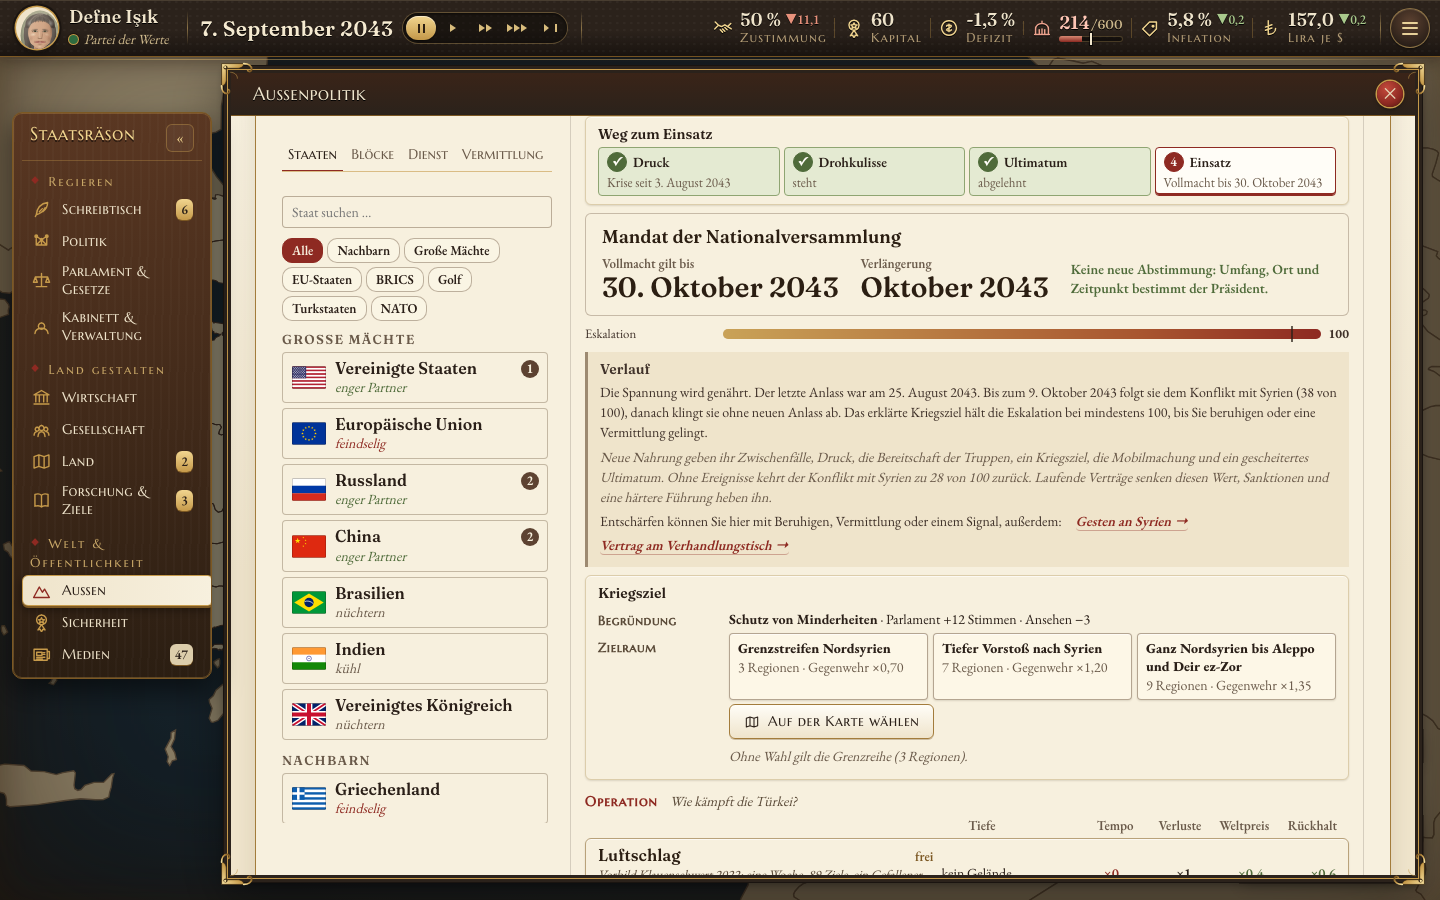
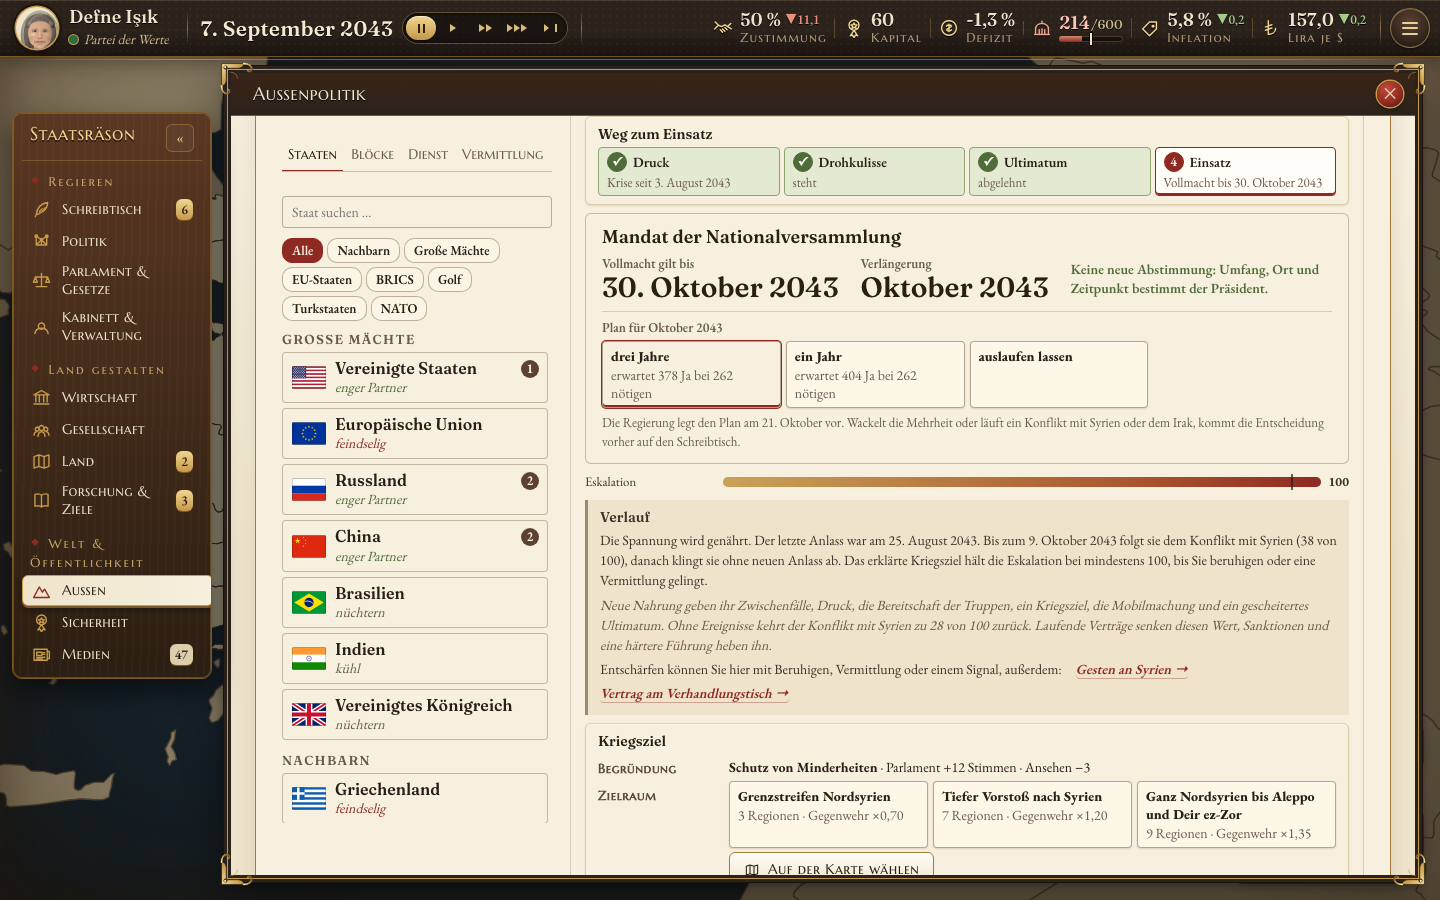
Vollmacht: Routineverlängerung nach Plan, auf dem Schreibtisch nur wenn die Mehrheit wackelt oder ein Konflikt mit Syrien oder dem Irak läuft; Plan für den Oktober in der Kriegsakte
Claude-Session: https://claude.ai/code/session_015tmx9syU1rT4V5iV7G2WLd

Changed region(s): [[0.4062, 0.3422, 0.9375, 0.9956], [0.4062, 0.9333, 0.4688, 0.9644]]

diff --git a/game/src/ui/krieg/Mandat.tsx b/game/src/ui/krieg/Mandat.tsx
@@ -7,6 +7,7 @@ import type { World } from "../../sim/types";
 import type { KriegVorgang } from "../../sim/krieg-typen";
 import { einsatzAnlass, mandatSperreBis, reservistenUnterWaffen, type KriegHandlungId, type KriegHandlungSicht } from "../../sim/krieg";
 import { mandatSicht } from "../../sim/mandat";
+import { vollmachtPlanSetzen } from "../../sim/ereignisse-mandat";
 import { vollmachtFuer, vollmachtStand } from "../../sim/krieg-recht";
 import { reservistenLuecke } from "../../sim/reservisten";
 import { PARTY_COLORS } from "../parlament/lage";
@@ -17,34 +18,10 @@ import "./mandat.css";
 
 const n0 = (x: number) => zahl(Math.round(x), 0);
 
-export function Mandat({ world, k, handlungen, tun }: { world: World; k: KriegVorgang; handlungen: KriegHandlungSicht[]; tun: (id: KriegHandlungId) => void }) {
+export function Mandat({ world, k, handlungen, tun, onTat }: { world: World; k: KriegVorgang; handlungen: KriegHandlungSicht[]; tun: (id: KriegHandlungId) => void; onTat: () => void }) {
   useSprache();
   const vollmacht = vollmachtFuer(world, k.land);
-  if (vollmacht) {
-    const letzte = vollmachtStand(world).verlauf.filter((v) => v.angenommen).at(-1);
-    return (
-      <section className="km7 km7-vollmacht" aria-label={t("welle_k7.m.titel")}>
-        <h5>{t("welle_k7.m.titel")}</h5>
-        <dl className="km7-kern">
-          <div>
-            <dt>{t("welle_k7.m.v.bis")}</dt>
-            <dd>{datum(vollmacht.bis)}</dd>
-          </div>
-          <div>
-            <dt>{t("welle_k7.m.v.abstimmung")}</dt>
-            <dd>{t("welle_k7.m.v.monat", { jahr: vollmacht.bis.slice(0, 4) })}</dd>
-          </div>
-          {letzte && (
-            <div>
-              <dt>{t("welle_k7.m.v.letzte")}</dt>
-              <dd>{t("welle_k7.m.v.letzte_wert", { ja: n0(letzte.ja), nein: n0(letzte.nein) })}</dd>
-            </div>
-          )}
-          <p className="km7-urteil gut">{t("welle_k7.m.v.satz")}</p>
-        </dl>
-      </section>
-    );
-  }
+  if (vollmacht) return <VollmachtKarte world={world} onTat={onTat} />;
   const m = mandatSicht(world, einsatzAnlass(k));
   const sperre = mandatSperreBis(world, k.land);
   const zusagen = new Map(handlungen.filter((h) => h.id.startsWith("zusage_")).map((h) => [h.id.slice("zusage_".length), h]));
@@ -96,6 +73,54 @@ export function Mandat({ world, k, handlungen, tun }: { world: World; k: KriegVo
       </ul>
       {[...zusagen.values()].slice(0, 1).map((z) => <p key={z.id} className="km7-hinweis">{z.hinweis}</p>)}
       {sperre > world.day && <p className="km7-sperre">{t("welle_k7.m.sperre", { datum: addDays(world.date, sperre - world.day) })}</p>}
+    </section>
+  );
+}
+
+/** Die stehende Vollmacht für Syrien und den Irak: Frist, Monat der Verlängerung, letzte Abstimmung und der Plan für den Oktober. */
+export function VollmachtKarte({ world, onTat }: { world: World; onTat: () => void }) {
+  useSprache();
+  const vollmacht = vollmachtFuer(world, "SYR");
+  if (!vollmacht) return null;
+  const stand = vollmachtStand(world);
+  const letzte = stand.verlauf.filter((v) => v.angenommen).at(-1);
+  const plan = stand.plan ?? 3;
+  return (
+    <section className="km7 km7-vollmacht" aria-label={t("welle_k7.m.titel")}>
+      <h5>{t("welle_k7.m.titel")}</h5>
+      <dl className="km7-kern">
+        <div>
+          <dt>{t("welle_k7.m.v.bis")}</dt>
+          <dd>{datum(vollmacht.bis)}</dd>
+        </div>
+        <div>
+          <dt>{t("welle_k7.m.v.abstimmung")}</dt>
+          <dd>{t("welle_k7.m.v.monat", { jahr: vollmacht.bis.slice(0, 4) })}</dd>
+        </div>
+        {letzte && (
+          <div>
+            <dt>{t("welle_k7.m.v.letzte")}</dt>
+            <dd>{t("welle_k7.m.v.letzte_wert", { ja: n0(letzte.ja), nein: n0(letzte.nein) })}</dd>
+          </div>
+        )}
+        <p className="km7-urteil gut">{t("welle_k7.m.v.satz")}</p>
+      </dl>
+      {/* Der Plan für den Oktober: was die Regierung routinemäßig vorlegt (sim/ereignisse-mandat.ts) */}
+      <div className="km7-plan">
+        <span className="km7-plan-kopf">{t("welle_k7.m.v.plan", { jahr: vollmacht.bis.slice(0, 4) })}</span>
+        <div className="ks-knoepfe" role="group">
+          {([3, 1, 0] as const).map((p) => {
+            const m = p > 0 ? mandatSicht(world, { art: "verlaengerung", jahre: p }) : undefined;
+            return (
+              <button key={p} type="button" className={plan === p ? "on" : ""} disabled={plan === p} onClick={() => { vollmachtPlanSetzen(world, p); onTat(); }}>
+                <strong>{t(`welle_k7.plan.${p}`)}</strong>
+                {m && <span>{t("welle_k7.m.v.plan_erwartet", { ja: n0(m.ja), noetig: n0(m.noetig) })}</span>}
+              </button>
+            );
+          })}
+        </div>
+        <p className="km7-hinweis">{t("welle_k7.m.v.plan_hinweis")}</p>
+      </div>
     </section>
   );
 }

diff --git a/game/src/sim/ereignisse-mandat.ts b/game/src/sim/ereignisse-mandat.ts
@@ -1,7 +1,12 @@
 // Die Verlängerung der Vollmacht für Syrien und Irak (Welle 4, K7; krieg.md Schritt 11, Befund B7).
 //
-//   vollmacht_verlaengerung  Fester Termin im Oktober des Jahres, in dem die Vollmacht ausläuft (zuerst am 30.10.2028). Der Präsident legt
-//                            sie für drei oder für ein Jahr vor, mit oder ohne Zusage an eine Fraktion, oder lässt sie auslaufen.
+//   vollmacht_verlaengerung  Termin im Oktober des Jahres, in dem die Vollmacht ausläuft (zuerst am 30.10.2028), wenn etwas auf dem Spiel
+//                            steht: Die Mehrheit wackelt, oder es läuft ein Konflikt mit Syrien oder dem Irak. Der Präsident legt sie für
+//                            drei oder für ein Jahr vor, mit oder ohne Zusage an eine Fraktion, oder lässt sie auslaufen.
+//
+// Sonst ist die Verlängerung Routine, wie in der Wirklichkeit seit 2014: Die Regierung legt am 21. Oktober vor, was der Plan sagt (drei Jahre
+// wie 2025, ein Jahr oder auslaufen lassen; einstellbar in der Kriegsakte), und das Ergebnis steht als Hinweis und in der Zeitung. So kommt
+// keine Akte ohne Entscheidung auf den Schreibtisch („wenige echte Entscheidungen mit Einsatz“).
 //
 // Vorbild: Die TBMM tritt am 1. Oktober wieder zusammen und stimmte über die Vollmacht am 08.10.2019, 07.10.2020, 26.10.2021, 17.10.2023 und
 // 21.10.2025 ab (recherche_operationen.md C; Tutanak 21.10.2025). Der Termin öffnet am 5. Oktober mit 15 Tagen Frist (Spielparameter), so
@@ -34,6 +39,30 @@ export function verlaengerungFaellig(w: World): boolean {
   if (!w.spiel || w.spiel.ende) return false;
   const s = vollmachtStand(w);
   return w.date.slice(5, 7) === "10" && s.bis.slice(0, 4) === w.date.slice(0, 4) && w.date <= s.bis && s.entschieden !== s.bis;
+}
+
+/** Ob die Verlängerung eine Entscheidung verdient: Die Mehrheit für den Plan wackelt, oder ein Konflikt mit Syrien oder dem Irak läuft. */
+export function verlaengerungStrittig(w: World): boolean {
+  const s = vollmachtStand(w);
+  const jahre = s.plan ?? 3;
+  if (jahre > 0 && zusageSinnvoll(mandatSicht(w, { art: "verlaengerung", jahre }))) return true;
+  return (w.spiel?.kriege ?? []).some((k) => VOLLMACHT_LAENDER.includes(k.land) && k.phase !== "beendet");
+}
+
+/** Der Plan der Regierung für den Oktober (Kriegsakte): drei Jahre, ein Jahr oder auslaufen lassen. */
+export function vollmachtPlanSetzen(w: World, plan: 0 | 1 | 3): void {
+  vollmachtFestschreiben(w);
+  if (w.spiel?.vollmacht) w.spiel.vollmacht.plan = plan;
+}
+
+/** Routine am 21. Oktober: Liegt keine Entscheidung vor und kein Termin offen, legt die Regierung vor, was der Plan sagt. */
+export function vollmachtRoutineTag(w: World): void {
+  const sp = w.spiel;
+  if (!sp || sp.ende || !verlaengerungFaellig(w) || w.date.slice(8, 10) < "21") return;
+  if (sp.ereignisse.some((e) => e.vorlage === "vollmacht_verlaengerung")) return;
+  const plan = vollmachtStand(w).plan ?? 3;
+  const text = plan === 0 ? auslaufen(w, false) : abstimmenUndBuchen(w, { art: "verlaengerung", jahre: plan });
+  sp.hinweise.push({ id: `vollmacht-${w.date}`, titel: t("welle_k7.v.titel_routine"), szene: "parlament", text: [text] });
 }
 
 /** Ein Satz mit der erwarteten Abstimmung für die Antwortkarte (dieselbe Rechnung wie die Buchung). */
@@ -88,7 +117,7 @@ const VOLLMACHT_VERLAENGERUNG: Vorlage = {
   frist: VOLLMACHT_TERMIN.frist,
   abkuehlung: 300,
   wettbewerb: "aussitzen",
-  chance: (w) => (verlaengerungFaellig(w) ? 1 : 0),
+  chance: (w) => (verlaengerungFaellig(w) && verlaengerungStrittig(w) ? 1 : 0),
   erzeuge: (w) => ({ provinzen: [], staerke: 1, daten: { bis: vollmachtStand(w).bis, jahre: 3 } }),
   titel: () => t("welle_k7.v.titel"),
   text: (w, ev) => {
@@ -98,6 +127,7 @@ const VOLLMACHT_VERLAENGERUNG: Vorlage = {
       t("welle_k7.v.text1"),
       t("welle_k7.v.text1b", { bis: String(ev.daten?.bis ?? s.bis) }),
       letzte ? t("welle_k7.v.text2.letzte", { datum: letzte.datum, ja: letzte.ja, nein: letzte.nein }) : t("welle_k7.v.text2.start"),
+      t("welle_k7.v.text3", { plan: t(`welle_k7.plan.${s.plan ?? 3}`) }),
     ];
   },
   warum: () => t("welle_k7.v.warum"),
@@ -130,7 +160,11 @@ const VOLLMACHT_VERLAENGERUNG: Vorlage = {
     out.push(opt("auslaufen", t("welle_k7.v.opt.auslaufen.label"), t("welle_k7.v.opt.auslaufen.beschr"), 0, (ww) => auslaufen(ww, false)));
     return out;
   },
-  standard: (w) => auslaufen(w, true),
+  // Ohne Antwort legt die Regierung vor, was der Plan sagt (Routine seit 2014)
+  standard: (w) => {
+    const plan = vollmachtStand(w).plan ?? 3;
+    return plan === 0 ? auslaufen(w, true) : abstimmenUndBuchen(w, { art: "verlaengerung", jahre: plan });
+  },
 };
 
 export const MANDAT_VORLAGEN: Vorlage[] = [VOLLMACHT_VERLAENGERUNG];

diff --git a/game/test/krieg-mandat.test.ts b/game/test/krieg-mandat.test.ts
@@ -9,8 +9,8 @@ import { KRIEG, einsatzAnlass, fuehreKriegHandlungAus, handlungenFuer, kriegMit,
 import { MANDAT, haltungVon, mandatSicht, zusageAngebote } from "../src/sim/mandat";
 import { vollmachtAbgeleitet, vollmachtFuer, vollmachtStand } from "../src/sim/krieg-recht";
 import { RESERVISTEN, reservistenLuecke } from "../src/sim/reservisten";
-import { VORLAGEN, antworten, oeffne } from "../src/sim/ereignisse";
-import { verlaengerungFaellig } from "../src/sim/ereignisse-mandat";
+import { VORLAGEN, antworten } from "../src/sim/ereignisse";
+import { verlaengerungFaellig, verlaengerungStrittig, vollmachtPlanSetzen } from "../src/sim/ereignisse-mandat";
 import { nationalAverage } from "../src/sim/netz";
 import { NET } from "../src/sim/modell";
 import { Rng } from "../src/sim/rng";
@@ -88,39 +88,54 @@ describe("Vollmacht für Syrien und den Irak", () => {
     expect(vollmachtAbgeleitet("2045-06-04")).toBe("2046-10-30");
   });
 
-  test("im Oktober 2028 liegt die Verlängerung auf dem Tisch; drei Jahre gehen durch, gebucht wird, was die Karte zeigt", () => {
+  test("im Oktober 2028 ist die Verlängerung Routine, wenn nichts auf dem Spiel steht: drei Jahre, ohne Akte auf dem Tisch", () => {
     const w = welt();
     expect(w.spiel!.vollmacht, "ein frischer Stand schreibt erst im ersten Monat fest").toBeUndefined();
     while (w.date < "2028-10-01") advance(w, 1);
     expect(verlaengerungFaellig(w)).toBe(true);
-    advance(w, 6);
+    expect(verlaengerungStrittig(w)).toBe(false);
+    const erwartet = mandatSicht(w, { art: "verlaengerung", jahre: 3 });
+    while (w.date < "2028-10-22") advance(w, 1);
+    expect(w.spiel!.chronik.some((c) => c.vorlage === "vollmacht_verlaengerung")).toBe(false);
+    const v = vollmachtStand(w);
+    expect(v.verlauf).toHaveLength(1);
+    expect(Math.abs(v.verlauf[0]!.ja - erwartet.ja)).toBeLessThanOrEqual(erwartet.band * 2);
+    expect(v.bis).toBe("2031-10-30");
+    expect(w.spiel!.hinweise.some((h) => h.id.startsWith("vollmacht-"))).toBe(true);
+  });
+
+  test("läuft ein Konflikt mit Syrien, liegt die Verlängerung am 5. Oktober auf dem Tisch; gebucht wird, was die Karte zeigt", () => {
+    const w = welt();
+    while (w.date < "2028-09-10") advance(w, 1);
+    expect(kriseEroeffnen(w, "SYR").ok).toBe(true);
+    w.spiel!.ereignisse = [];
+    while (w.date < "2028-10-06") advance(w, 1);
+    expect(verlaengerungStrittig(w)).toBe(true);
     const ev = w.spiel!.ereignisse.find((e) => e.vorlage === "vollmacht_verlaengerung");
     expect(ev, "Termin am 5. Oktober").toBeDefined();
     const opts = antworten(w, ev!);
     expect(opts.map((o) => o.id)).toEqual(expect.arrayContaining(["jahre_3", "jahre_1", "auslaufen"]));
-    const erwartet = mandatSicht(w, { art: "verlaengerung", jahre: 3 });
-    const drei = opts.find((o) => o.id === "jahre_3")!;
-    expect(drei.bedingungen![0]).toContain(String(erwartet.noetig));
-    drei.wirkung(w, ev!, new Rng(1));
+    const erwartet = mandatSicht(w, { art: "verlaengerung", jahre: 1 });
+    const eins = opts.find((o) => o.id === "jahre_1")!;
+    expect(eins.bedingungen![0]).toContain(String(erwartet.noetig));
+    eins.wirkung(w, ev!, new Rng(1));
     const v = vollmachtStand(w);
     const letzte = v.verlauf.at(-1)!;
+    expect(letzte.jahre).toBe(1);
     expect(Math.abs(letzte.ja - erwartet.ja)).toBeLessThanOrEqual(erwartet.band * 2);
-    if (letzte.angenommen) expect(v.bis).toBe("2031-10-30");
-    else expect(v.bis).toBe("2028-10-30");
+    expect(v.bis).toBe(letzte.angenommen ? "2029-10-30" : "2028-10-30");
     expect(verlaengerungFaellig(w)).toBe(false);
   });
 
-  test("liegen lassen: Die Vollmacht läuft aus, danach braucht Syrien ein eigenes Mandat", () => {
+  test("Plan „auslaufen lassen“: Die Vollmacht endet, danach braucht Syrien ein eigenes Mandat", () => {
     const w = welt();
-    while (w.date < "2028-10-06") advance(w, 1);
-    const v = VORLAGEN.find((x) => x.id === "vollmacht_verlaengerung")!;
-    const ev = w.spiel!.ereignisse.find((e) => e.vorlage === "vollmacht_verlaengerung")!;
-    v.standard(w, ev, new Rng(1));
-    w.spiel!.ereignisse = [];
+    vollmachtPlanSetzen(w, 0);
     while (w.date <= "2028-10-30") advance(w, 1);
     expect(vollmachtFuer(w, "SYR")).toBeUndefined();
+    expect(vollmachtStand(w).verlauf).toHaveLength(0);
     advance(w, 40);
     expect(w.spiel!.ereignisse.some((e) => e.vorlage === "vollmacht_verlaengerung")).toBe(false);
+    void VORLAGEN;
   });
 
   test.skipIf(!existsSync(STAND_2043))("Stand des Inhabers 2043: Syrien ohne neue Abstimmung, Zypern mit Abstimmung und sichtbarer Opposition", () => {

diff --git a/game/src/ui/welt/KriegDossier.tsx b/game/src/ui/welt/KriegDossier.tsx
@@ -53,7 +53,8 @@ import { Fernkonflikt } from "../krieg/Fernkonflikt";
 import { Lagekarte } from "../krieg/Lagekarte";
 import { Operation } from "../krieg/Operation";
 // Welle 4, K7: Mandat der Nationalversammlung (Fraktionen, Zusagen, Vollmacht) und Heimatfront (Reservisten, Kritik)
-import { Heimatfront, Mandat } from "../krieg/Mandat";
+import { Heimatfront, Mandat, VollmachtKarte } from "../krieg/Mandat";
+import { VOLLMACHT_LAENDER } from "../../sim/krieg-recht";
 import { istFernkonflikt } from "../../sim/fernkonflikt";
 import { VersorgungsLage } from "../gueter/VersorgungsLage";
 import { UbVerweis } from "../akte/Uebersicht";
@@ -174,6 +175,8 @@ export function KriegDossier({ world, landId, refresh, onTab }: { world: World; 
           <span>{grund ?? t(preis.aufschlag ? "welle_k1.krise.preis_aufschlag" : "welle_k1.krise.preis", { ansehen: zahlZeichen1(preis.ansehen), vertrauen: zahlZeichen1(preis.vertrauen), land: land(landId).name, ab: KRISE_AB })}</span>
         </div>
         <p className="subtitle">{t("welle_k1.krise.erklaerung", { anlage: KRIEG.anlageAb })}</p>
+        {/* Welle 4, K7: Für Syrien und den Irak die stehende Vollmacht mit dem Plan für den Oktober */}
+        {VOLLMACHT_LAENDER.includes(landId) && <VollmachtKarte world={world} onTat={refresh} />}
         <Besatzung world={world} onTat={(text) => melde({ ok: true, text })} nurLand={landId} />
       </section>
     );
@@ -228,7 +231,7 @@ export function KriegDossier({ world, landId, refresh, onTab }: { world: World; 
       {streifen}
 
       {vorKrieg && <Leiter world={world} k={k} />}
-      {vorKrieg && <Mandat world={world} k={k} handlungen={handlungen} tun={tun} />}
+      {vorKrieg && <Mandat world={world} k={k} handlungen={handlungen} tun={tun} onTat={refresh} />}
 
       {vorKrieg && (
         <div className="kd-zeile" title={t("ui.welt.KriegDossier.c4f3a82")}>

diff --git a/game/src/sim/krieg.ts b/game/src/sim/krieg.ts
@@ -58,6 +58,7 @@ import { erlassGrund, parlamentInFerien, vollmachtAbgelaufen, vollmachtFestschre
 // Welle 4, K7: Mandat nach den belegten Haltungen der Fraktionen, Zusagen, Sperre nach dem Scheitern; Reservisten am Arbeitsmarkt
 import { MANDAT, haltungsSatz, mandatAbstimmen, mandatSicht, zusageAngebote, zusageBuchen, zusageSinnvoll, type MandatAnlass } from "./mandat";
 import { RESERVISTEN, reservistenLuecke, reservistenVon } from "./reservisten";
+import { vollmachtRoutineTag } from "./ereignisse-mandat";
 import { FERN, fernZielErreicht, fernZielVon, istFernkonflikt } from "./fernkonflikt";
 // Welle 3, K4 (krieg.md Schritt 7): der Friedenstisch mit Forderungen je Region (sim/friedenstisch.ts)
 import { uebergabenTag } from "./besatzung";
@@ -1930,6 +1931,8 @@ export function kriegTag(w: World, rng: Rng): void {
   if (!spiel || spiel.ende) return;
   // Welle 3, K4: Im Friedensvertrag zurückgegebene Regionen gehen am Tag der Übergabe an den Gegner
   uebergabenTag(w);
+  // Welle 4, K7: Routineverlängerung der Vollmacht für Syrien und den Irak (sim/ereignisse-mandat.ts)
+  vollmachtRoutineTag(w);
   for (const k of kriege(w)) {
     // Eskalation folgt träge der Konflikt-Dimension des Landes, solange ein Anlass sie nährt; danach klingt sie ab (KRIEG.naehrFrist)
     if (k.phase === "spannung" || k.phase === "drohkulisse") {

diff --git a/game/src/sim/krieg-recht.ts b/game/src/sim/krieg-recht.ts
@@ -48,6 +48,8 @@ export interface VollmachtZustand {
   /** Für diese Frist ist entschieden (verlängert, abgelehnt oder auslaufen lassen): keine zweite Vorlage */
   entschieden?: string;
   verlauf: VollmachtAbstimmung[];
+  /** Was die Regierung im Oktober routinemäßig vorlegt: Jahre (1 oder 3) oder 0 für „auslaufen lassen“; ohne Angabe drei Jahre wie 2025 */
+  plan?: 0 | 1 | 3;
 }
 
 export const VOLLMACHT_LAENDER = ["SYR", "IRQ"];

diff --git a/game/src/ui/krieg/mandat.css b/game/src/ui/krieg/mandat.css
@@ -32,3 +32,5 @@
   .km7-wort, .km7-zahlen { grid-column: 2 / -1; }
   .km7-zusage { grid-column: 2 / -1; justify-self: start; }
 }
+.km7-plan { display: grid; gap: 6px; padding-top: var(--abstand-2); border-top: 1px solid var(--linie); }
+.km7-plan-kopf { font: 600 var(--schrift-1)/1.2 var(--serif); color: var(--tinte-3); }
